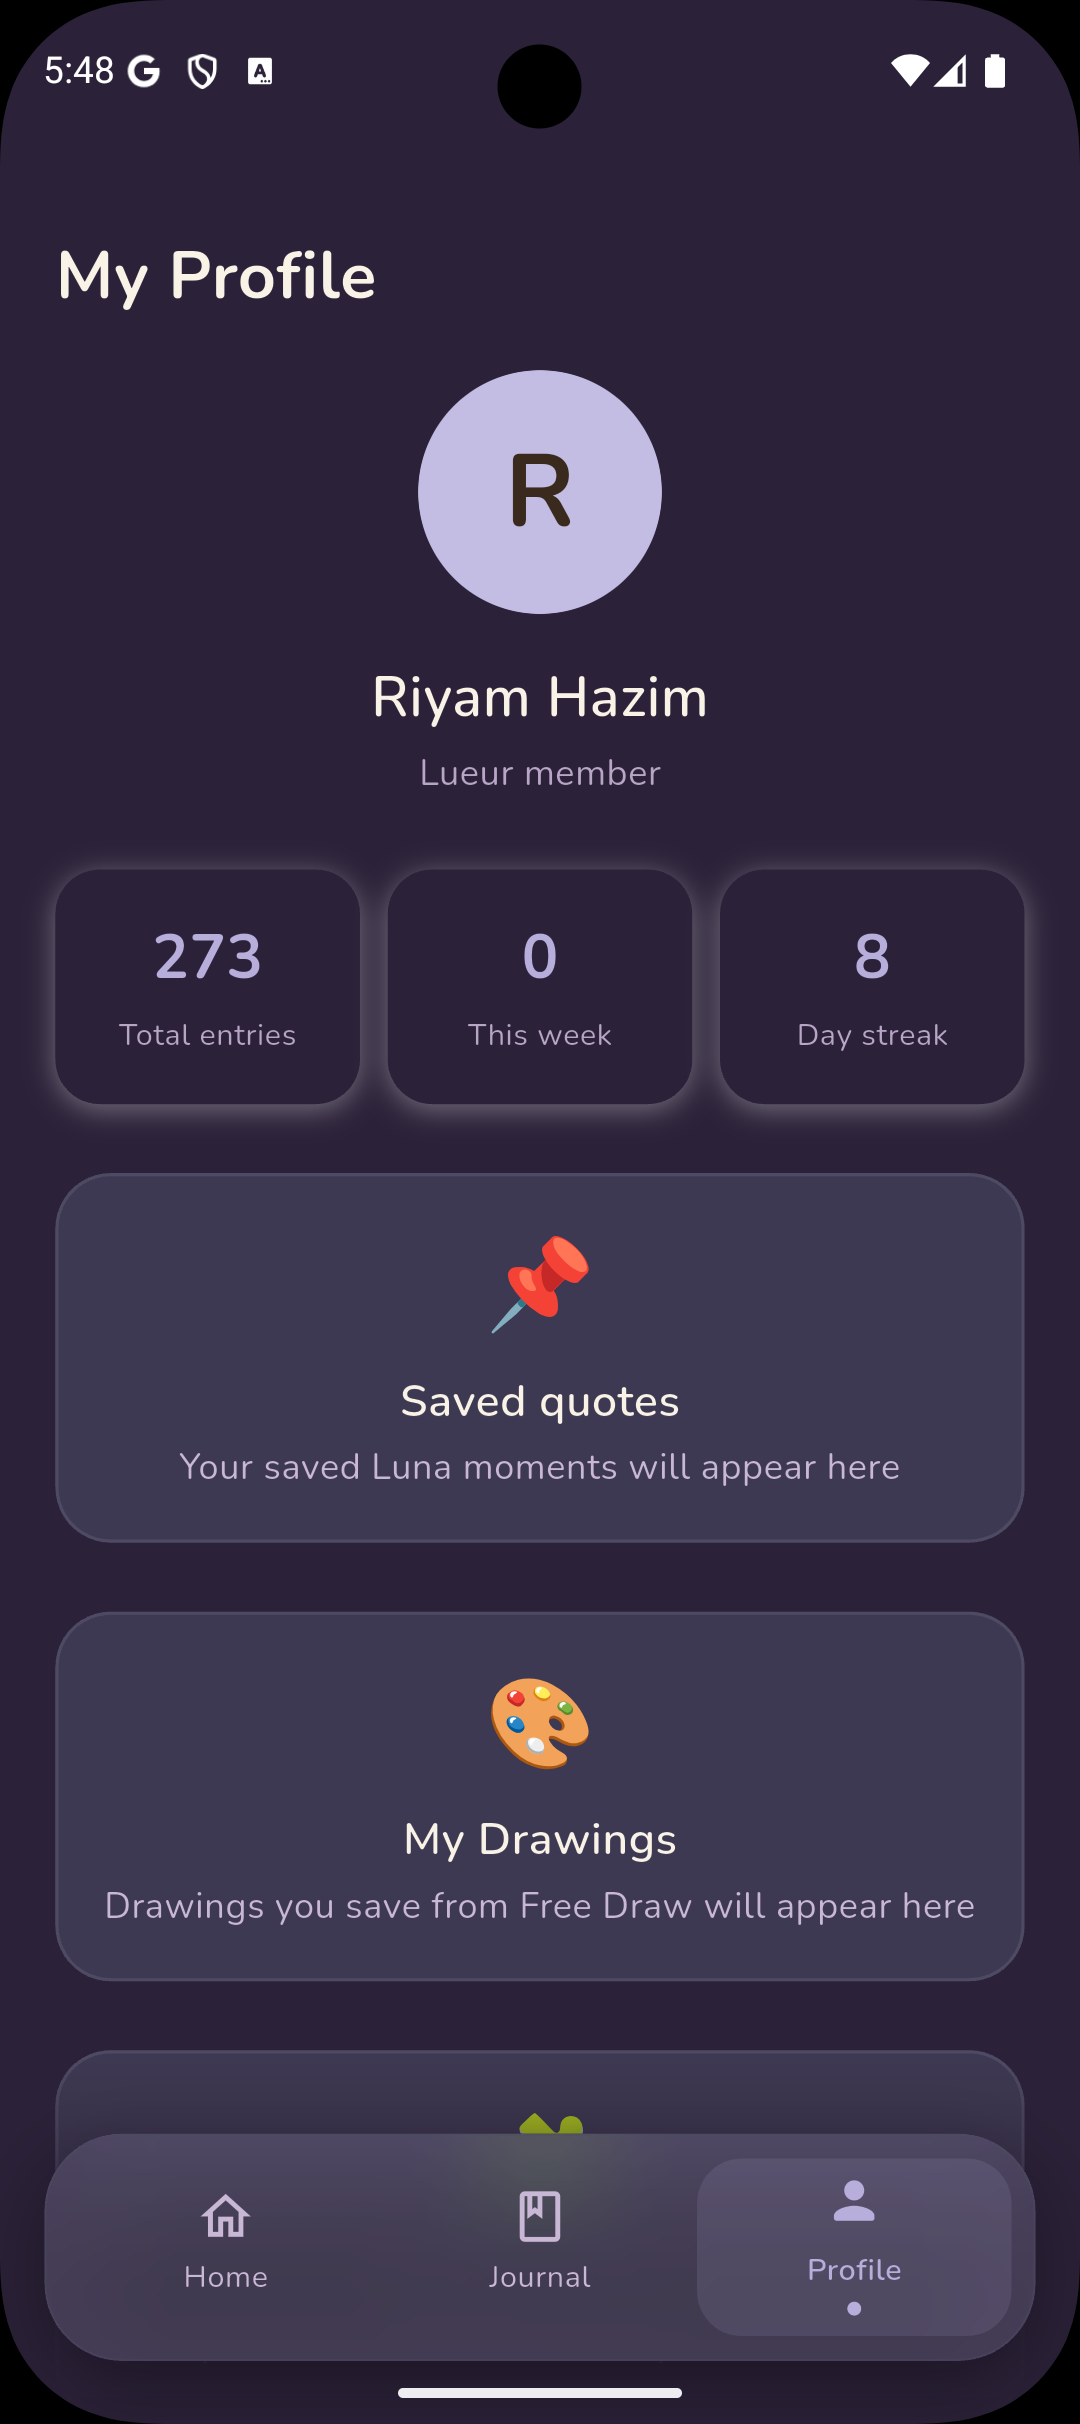
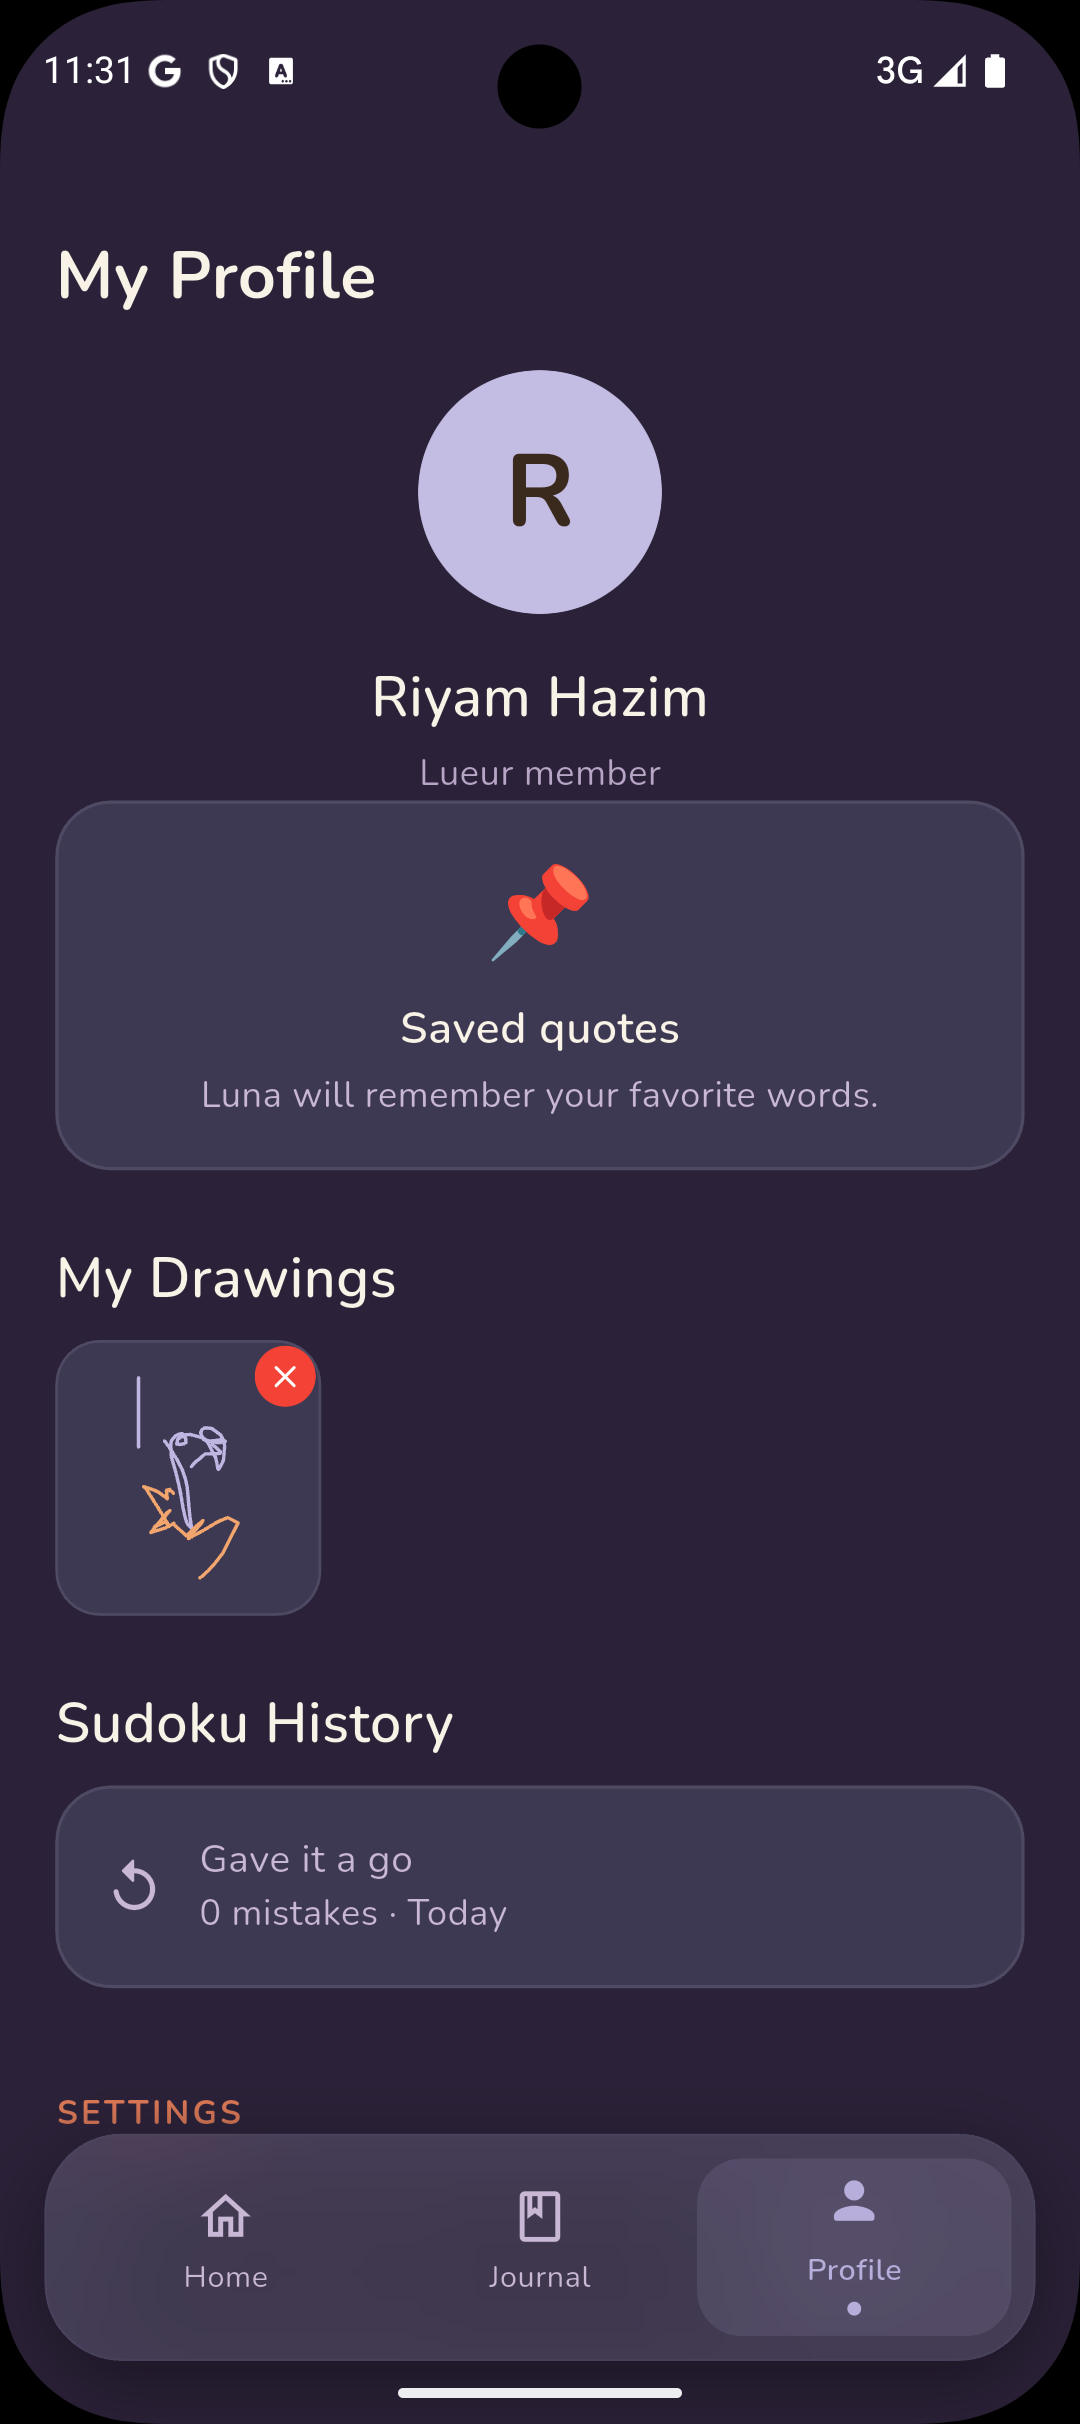
update profile screen to show auth action widget for guest users

diff --git a/lib/features/profile/presentation/widgets/profile_auth_action_widget.dart b/lib/features/profile/presentation/widgets/profile_auth_action_widget.dart
@@ -58,47 +58,54 @@ class _ProfileGuestAuthButtons extends StatelessWidget {
 
   @override
   Widget build(BuildContext context) {
-    return Row(
+    return Column(
       children: [
-        Expanded(
-          child: OutlinedButton(
-            onPressed: () => context.go(AppRoutes.loginScreen),
-            style: OutlinedButton.styleFrom(
-              padding: EdgeInsets.symmetric(vertical: 14.h),
-              side: const BorderSide(color: AppColors.primary),
-              shape: RoundedRectangleBorder(
-                borderRadius: BorderRadius.circular(AppSizes.borderRadiusMd),
+        Row(
+          children: [
+            Expanded(
+              child: OutlinedButton(
+                onPressed: () => context.go(AppRoutes.loginScreen),
+                style: OutlinedButton.styleFrom(
+                  padding: EdgeInsets.symmetric(vertical: 14.h),
+                  side: const BorderSide(color: AppColors.primary),
+                  shape: RoundedRectangleBorder(
+                    borderRadius:
+                        BorderRadius.circular(AppSizes.borderRadiusMd),
+                  ),
+                ),
+                child: Text(
+                  AppLocalizations.of(context)!.profileGuestLogInLabel,
+                  style: ThemeTextStyles.bodyMedium(context).copyWith(
+                    color: AppColors.primary,
+                    fontWeight: FontWeight.w600,
+                  ),
+                ),
               ),
             ),
-            child: Text(
-              AppLocalizations.of(context)!.profileGuestLogInLabel,
-              style: ThemeTextStyles.bodyMedium(context).copyWith(
-                color: AppColors.primary,
-                fontWeight: FontWeight.w600,
+            SizedBox(width: AppSpacing.spaceMd),
+            Expanded(
+              child: ElevatedButton(
+                onPressed: () => context.go(AppRoutes.registerScreen),
+                style: ElevatedButton.styleFrom(
+                  backgroundColor: AppColors.primary,
+                  padding: EdgeInsets.symmetric(vertical: 14.h),
+                  shape: RoundedRectangleBorder(
+                    borderRadius:
+                        BorderRadius.circular(AppSizes.borderRadiusMd),
+                  ),
+                ),
+                child: Text(
+                  AppLocalizations.of(context)!.profileGuestRegisterLabel,
+                  style: ThemeTextStyles.bodyMedium(context).copyWith(
+                    color: Colors.white,
+                    fontWeight: FontWeight.w600,
+                  ),
+                ),
               ),
             ),
-          ),
+          ],
         ),
-        SizedBox(width: AppSpacing.spaceMd),
-        Expanded(
-          child: ElevatedButton(
-            onPressed: () => context.go(AppRoutes.registerScreen),
-            style: ElevatedButton.styleFrom(
-              backgroundColor: AppColors.primary,
-              padding: EdgeInsets.symmetric(vertical: 14.h),
-              shape: RoundedRectangleBorder(
-                borderRadius: BorderRadius.circular(AppSizes.borderRadiusMd),
-              ),
-            ),
-            child: Text(
-              AppLocalizations.of(context)!.profileGuestRegisterLabel,
-              style: ThemeTextStyles.bodyMedium(context).copyWith(
-                color: Colors.white,
-                fontWeight: FontWeight.w600,
-              ),
-            ),
-          ),
-        ),
+        SizedBox(height: AppSpacing.verticalPaddingSm),
       ],
     );
   }

diff --git a/lib/features/profile/presentation/widgets/profile_account_section_widget.dart b/lib/features/profile/presentation/widgets/profile_account_section_widget.dart
@@ -10,6 +10,8 @@ import 'package:lueur/l10n/app_localizations.dart';
 /// Permanent account deletion, kept as its own section — distinct from
 /// [ProfileJournalDataSectionWidget]'s "delete all journal entries", which
 /// only clears mood data and leaves the account itself intact.
+///
+/// Hidden entirely for guest sessions, since there is no account to delete.
 class ProfileAccountSectionWidget extends StatelessWidget {
   const ProfileAccountSectionWidget({super.key});
 
@@ -59,31 +61,39 @@ class ProfileAccountSectionWidget extends StatelessWidget {
   Widget build(BuildContext context) {
     final l10n = AppLocalizations.of(context)!;
 
-    return Column(
-      crossAxisAlignment: CrossAxisAlignment.start,
-      children: [
-        Text(
-          l10n.profileAccountSectionLabel,
-          style: ThemeTextStyles.labelSmall(context).copyWith(
-            color: AppColors.primary,
-            fontWeight: FontWeight.bold,
-            letterSpacing: 1.2,
-          ),
-        ),
-        SizedBox(height: AppSpacing.verticalPaddingSm),
-        ListTile(
-          contentPadding: EdgeInsets.zero,
-          leading: const Icon(
-            Icons.delete_forever_rounded,
-            color: AppColors.errorColor,
-          ),
-          title: Text(
-            l10n.profileDeleteAccountLabel,
-            style: const TextStyle(color: AppColors.errorColor),
-          ),
-          onTap: () => _confirmDeleteAccount(context),
-        ),
-      ],
+    return BlocBuilder<AuthCubit, AuthState>(
+      buildWhen: (previous, current) =>
+          previous is AuthGuest != current is AuthGuest,
+      builder: (context, state) {
+        if (state is AuthGuest) return const SizedBox.shrink();
+
+        return Column(
+          crossAxisAlignment: CrossAxisAlignment.start,
+          children: [
+            Text(
+              l10n.profileAccountSectionLabel,
+              style: ThemeTextStyles.labelSmall(context).copyWith(
+                color: AppColors.primary,
+                fontWeight: FontWeight.bold,
+                letterSpacing: 1.2,
+              ),
+            ),
+            SizedBox(height: AppSpacing.verticalPaddingSm),
+            ListTile(
+              contentPadding: EdgeInsets.zero,
+              leading: const Icon(
+                Icons.delete_forever_rounded,
+                color: AppColors.errorColor,
+              ),
+              title: Text(
+                l10n.profileDeleteAccountLabel,
+                style: const TextStyle(color: AppColors.errorColor),
+              ),
+              onTap: () => _confirmDeleteAccount(context),
+            ),
+          ],
+        );
+      },
     );
   }
 }

diff --git a/README.md b/README.md
@@ -153,24 +153,14 @@ The flow below follows the app in order — onboarding → sign in → capture a
     <td><img src="screenshots/free_drawing_screen_dark.png" width="180" alt="Free drawing canvas, dark theme"/></td>
   </tr>
   <tr>
-    <td>Saved drawings</td>
-    <td><img src="screenshots/profile_with_saved_drawing_light.png" width="180" alt="Saved drawings gallery, light theme"/></td>
-    <td><img src="screenshots/profile_with_saved_drawing_dark.png" width="180" alt="Saved drawings gallery, dark theme"/></td>
-  </tr>
-  <tr>
     <td>Sudoku</td>
     <td><img src="screenshots/sudoku_screen_light.png" width="180" alt="Sudoku puzzle, light theme"/></td>
     <td><img src="screenshots/sudoku_screen_dark.png" width="180" alt="Sudoku puzzle, dark theme"/></td>
   </tr>
   <tr>
     <td>Profile & settings</td>
-    <td><img src="screenshots/profile_with_theming_langs_light.png" width="180" alt="Theme & language settings, light theme"/></td>
-    <td><img src="screenshots/profile_with_theming_langs_dark.png" width="180" alt="Theme & language settings, dark theme"/></td>
-  </tr>
-  <tr>
-    <td>Delete account confirmation</td>
-    <td><img src="screenshots/delete_account_light.png" width="180" alt="Delete account confirmation dialog, light theme"/></td>
-    <td><img src="screenshots/delete_account_dark.png" width="180" alt="Delete account confirmation dialog, dark theme"/></td>
+    <td><img src="screenshots/profile_light.png" width="180" alt="Profile & settings, light theme"/></td>
+    <td><img src="screenshots/profile_dark.png" width="180" alt="Profile & settings, dark theme"/></td>
   </tr>
 </table>
 
